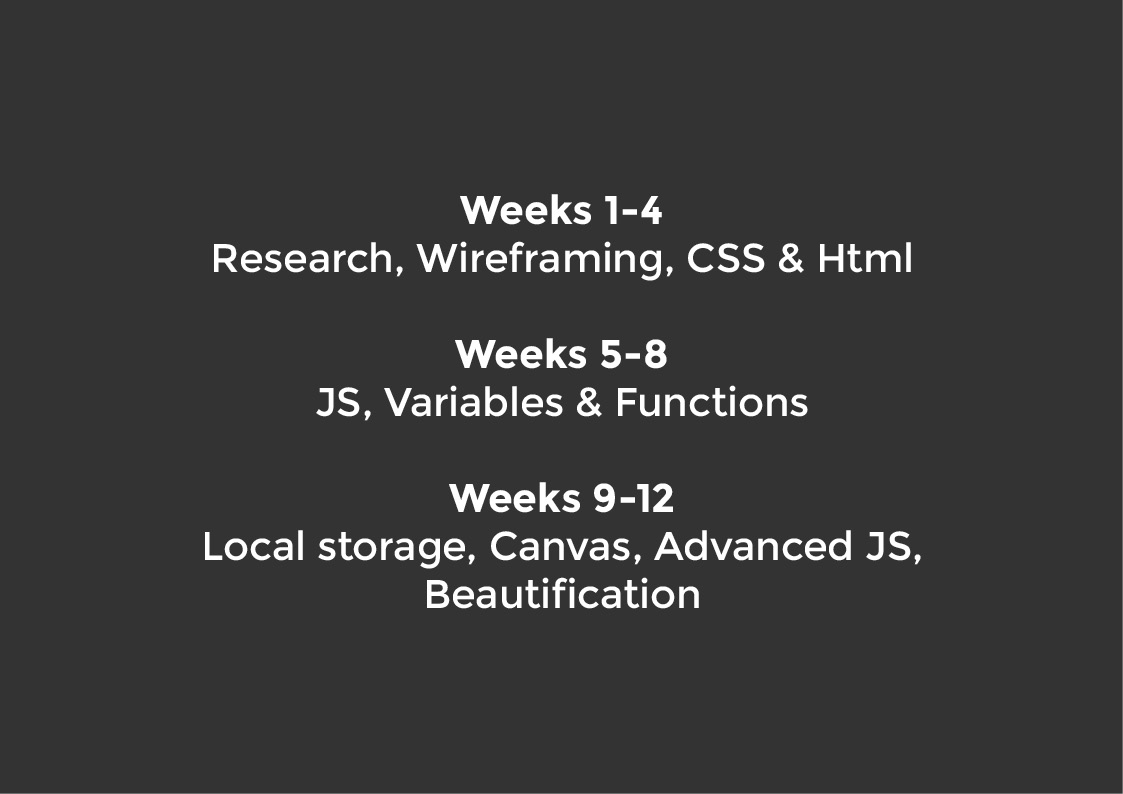
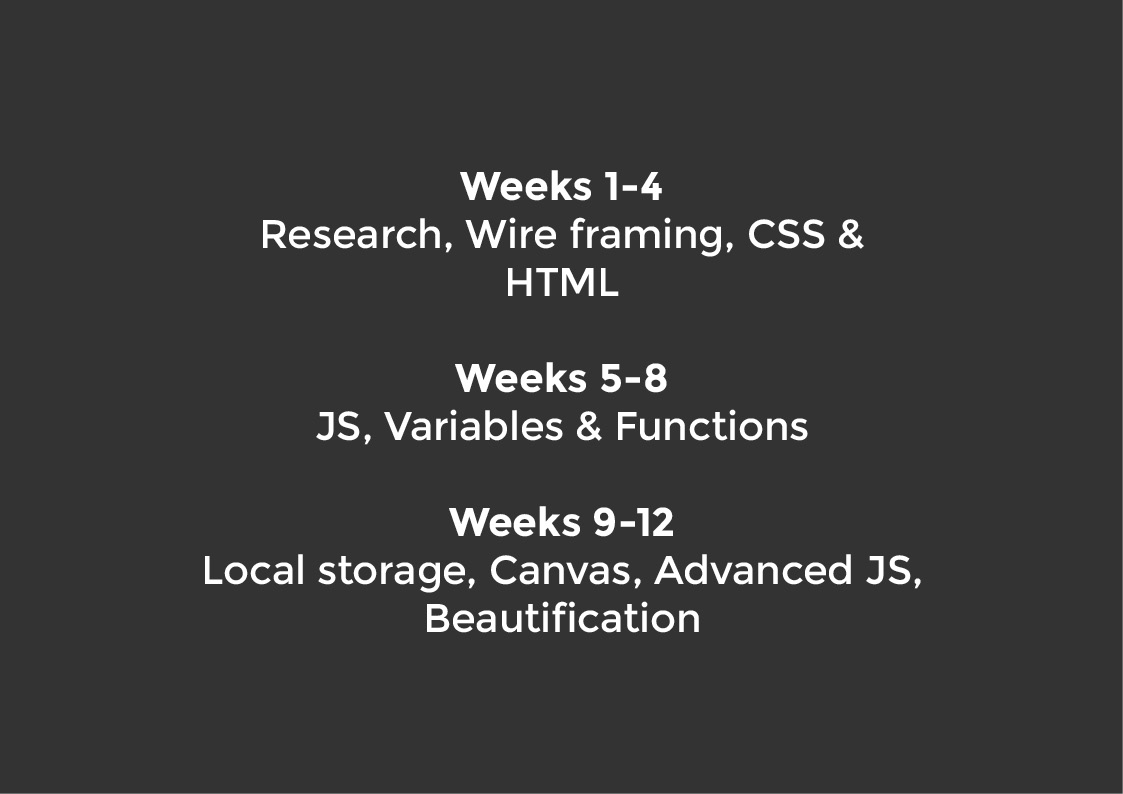
spellcheck

Changed region(s): [[0.1558, 0.6045, 0.8103, 0.8161], [0.187, 0.2116, 0.8103, 0.3929], [0.2805, 0.4232, 0.7168, 0.5743]]

diff --git a/week1.html b/week1.html
@@ -82,7 +82,7 @@ Put your Left hand up
               <h4 class="bullet" >Happy</h4>
               <h4 class=" bullet" >Meh? </h4>
               <h4 class="bullet" >Unhappy</h4>
-              <p class="small">If you are unhappy or unure on something, please explain on the back</p>
+              <p class="small">If you are unhappy or unsure on something, please explain on the back</p>
             </section>
     <section data-menu-title="stickie 1" data-background-transition="convex">
               <p><img src="assets/week0assets/sticky2.JPG"/></p>
@@ -152,7 +152,7 @@ Put your Left hand up
               <h3>Our Expectations</h3>
               <p class="fragment">All to engage with lectures & workshops.</p>
               <p class="fragment">Proactive: Ask for help.</p>
-              <p class="fragment">Resourceful - There are plenty of resources online (lynda)</p>
+              <p class="fragment">Resourceful - There are plenty of resources on-line (lynda)</p>
               <p class="fragment">Self-directed learning. (Univ.)</p>
               <p class="fragment">Read and work, including in your own time (i.e. out of Lect. & workshop)</p>
               <p class="fragment"><strong>Work is progressive</strong> - You should be working every week</p>
@@ -165,23 +165,23 @@ Put your Left hand up
     <section data-background="#3f3f3f">
               <h3>Module Overview</h3>
               <p class="fragment">1: Technical look at Web Authoring. (Not Web Design)</p>
-              <p class="fragment">2: Understand & Apply fundamentals of HTML5, CSS3 for creating & styling webpages.</p>
+              <p class="fragment">2: Understand & Apply fundamentals of HTML5, CSS3 for creating & styling web pages.</p>
               <p class="fragment">3: Develop interactive & multimedia-rich websites.</p>
-              <p class="fragment">4: Javascripts / JQuery.</p>
+              <p class="fragment">4: Javascript / JQuery.</p>
               <p class="fragment">5: Understand & Adhere to Web Standards & Specification.</p>
               <p class="fragment">6: Interoperability / responsive (cross-browser & devices)</p>
             </section>
     <section data-background="#3f3f3f">
               <h3>CRG</h3>
-              <h4>(Curriculum Rigour Grid<span style="color: red">!Important;)</span></h4>
-              <p>2 assignements each with their own CRG</p>
+              <h4>(Curriculum Rigor Grid<span style="color: red">!Important;)</span></h4>
+              <p>2 assignments each with their own CRG</p>
             </section>
     <section data-menu-title="crg" data-background-iframe="assets/week0assets/crg1.pdf"> </section>
     <section data-menu-title="crg" data-background-iframe="assets/week0assets/crg2.pdf"> </section>
     <section data-background="#3f3f3f">
               <h3>Schedule</h3>
               <h4>Weeks 1-4</h4>
-              <p>Research, Wireframing, CSS & Html</p>
+              <p>Research, Wire-framing, CSS & HTML</p>
               <h4>Weeks 5-8 </h4>
               <p>JS, Variables & Functions</p>
               <h4>Weeks 9-12 </h4>
@@ -189,37 +189,37 @@ Put your Left hand up
             </section>
 
  
-    <section data-menu-title="slide49" data-background="assets/week0assets/intro49.jpg" data-background-size="900px" data-background-color="#333333"></section>
+    <section data-menu-title="slide49" data-background="assets/week0assets/intro49.jpg" data-background-size="contain" data-background-color="#333333"></section>
 
-    <section data-menu-title="slide51" data-background="assets/week0assets/intro51.jpg" data-background-size="900px" data-background-color="#333333"></section>
-    <section data-menu-title="slide52" data-background="assets/week0assets/intro52.jpg" data-background-size="900px" data-background-color="#333333"></section>
-    <section data-menu-title="slide53" data-background="assets/week0assets/intro53.jpg" data-background-size="900px" data-background-color="#333333"></section>
-    <section data-menu-title="slide54" data-background="assets/week0assets/intro54.jpg" data-background-size="900px" data-background-color="#333333"></section>
-    <section data-menu-title="slide55" data-background="assets/week0assets/intro55.jpg" data-background-size="900px" data-background-color="#333333"></section>
-    <section data-menu-title="slide56" data-background="assets/week0assets/intro56.jpg" data-background-size="900px" data-background-color="#333333"></section>
+    <section data-menu-title="slide51" data-background="assets/week0assets/intro51.jpg" data-background-size="contain" data-background-color="#333333"></section>
+    <section data-menu-title="slide52" data-background="assets/week0assets/intro52.jpg" data-background-size="contain" data-background-color="#333333"></section>
+    <section data-menu-title="slide53" data-background="assets/week0assets/intro53.jpg" data-background-size="contain" data-background-color="#333333"></section>
+    <section data-menu-title="slide54" data-background="assets/week0assets/intro54.jpg" data-background-size="contain" data-background-color="#333333"></section>
+    <section data-menu-title="slide55" data-background="assets/week0assets/intro55.jpg" data-background-size="contain" data-background-color="#333333"></section>
+    <section data-menu-title="slide56" data-background="assets/week0assets/intro56.jpg" data-background-size="contain" data-background-color="#333333"></section>
     
      <section data-menu-title="logical" data-background-transition="convex" data-background-video="assets/week0assets/logical.mp4"> </section>
     
-    <section data-menu-title="slide58" data-background="assets/week0assets/intro58.jpg" data-background-size="900px" data-background-color="#333333"></section>
-    <section data-menu-title="slide59" data-background="assets/week0assets/intro59.jpg" data-background-size="900px" data-background-color="#333333"></section>
-    <section data-menu-title="slide60" data-background="assets/week0assets/intro60.jpg" data-background-size="900px" data-background-color="#333333"></section>
-    <section data-menu-title="slide61" data-background="assets/week0assets/intro61.jpg" data-background-size="900px" data-background-color="#333333"></section>
-    <section data-menu-title="slide62" data-background="assets/week0assets/intro62.jpg" data-background-size="900px" data-background-color="#333333"></section>
-    <section data-menu-title="slide63" data-background="assets/week0assets/intro63.jpg" data-background-size="900px" data-background-color="#333333"></section>
-    <section data-menu-title="slide64" data-background="assets/week0assets/intro64.jpg" data-background-size="900px" data-background-color="#333333"></section>
-    <section data-menu-title="slide65" data-background="assets/week0assets/intro65.jpg" data-background-size="900px" data-background-color="#333333"></section>
+    <section data-menu-title="slide58" data-background="assets/week0assets/intro58.jpg" data-background-size="contain" data-background-color="#333333"></section>
+    <section data-menu-title="slide59" data-background="assets/week0assets/intro59.jpg" data-background-size="contain" data-background-color="#333333"></section>
+    <section data-menu-title="slide60" data-background="assets/week0assets/intro60.jpg" data-background-size="contain" data-background-color="#333333"></section>
+    <section data-menu-title="slide61" data-background="assets/week0assets/intro61.jpg" data-background-size="contain" data-background-color="#333333"></section>
+    <section data-menu-title="slide62" data-background="assets/week0assets/intro62.jpg" data-background-size="contain" data-background-color="#333333"></section>
+    <section data-menu-title="slide63" data-background="assets/week0assets/intro63.jpg" data-background-size="contain" data-background-color="#333333"></section>
+    <section data-menu-title="slide64" data-background="assets/week0assets/intro64.jpg" data-background-size="contain" data-background-color="#333333"></section>
+    <section data-menu-title="slide65" data-background="assets/week0assets/intro65.jpg" data-background-size="contain" data-background-color="#333333"></section>
 
 	 <section data-menu-title="SWORDFISH HACK" data-background-transition="convex" data-background-video="assets/week0assets/hack.mp4" data-background-video-loop="loop"> </section>
 			  
 			  
-    <section data-menu-title="slide67" data-background="assets/week0assets/intro67.jpg" data-background-size="900px" data-background-color="#333333"></section>
+    <section data-menu-title="slide67" data-background="assets/week0assets/intro67.jpg" data-background-size="contain" data-background-color="#333333"></section>
  
         <section  data-background="">
-              <h2>Assesments</h2>
+              <h2>Assessments</h2>
               <h3>
 				  There are 2 parts</h3>
 
-<p class="fragment">1: Research, Wireframing & Peer Reviews <br>
+<p class="fragment">1: Research, Wire-framing & Peer Reviews <br>
 	(week 7)</p>
 
 <p class="fragment">2: Functional Website: Live server, interoperability video documentation<br>
@@ -227,35 +227,35 @@ Put your Left hand up
               </p>
             </section>
             
-    <section data-menu-title="slide69" data-background="assets/week0assets/intro69.jpg" data-background-size="900px" data-background-color="#333333"></section>
-    <section data-menu-title="slide70" data-background="assets/week0assets/intro70.jpg" data-background-size="900px" data-background-color="#333333"></section>
-    <section data-menu-title="slide71" data-background="assets/week0assets/intro71.jpg" data-background-size="900px" data-background-color="#333333"></section>
-    <section data-menu-title="slide72" data-background="assets/week0assets/intro72.jpg" data-background-size="900px" data-background-color="#333333"></section>
-    <section data-menu-title="slide73" data-background="assets/week0assets/intro73.jpg" data-background-size="900px" data-background-color="#333333"></section>
-    <section data-menu-title="slide74" data-background="assets/week0assets/intro74.jpg" data-background-size="900px" data-background-color="#333333"></section>
-    <section data-menu-title="slide75" data-background="assets/week0assets/intro75.jpg" data-background-size="900px" data-background-color="#333333"></section>
-    <section data-menu-title="slide76" data-background="assets/week0assets/intro76.jpg" data-background-size="900px" data-background-color="#333333"></section>
+    <section data-menu-title="slide69" data-background="assets/week0assets/intro69.jpg" data-background-size="contain" data-background-color="#333333"></section>
+    <section data-menu-title="slide70" data-background="assets/week0assets/intro70.jpg" data-background-size="contain" data-background-color="#333333"></section>
+    <section data-menu-title="slide71" data-background="assets/week0assets/intro71.jpg" data-background-size="contain" data-background-color="#333333"></section>
+    <section data-menu-title="slide72" data-background="assets/week0assets/intro72.jpg" data-background-size="contain" data-background-color="#333333"></section>
+    <section data-menu-title="slide73" data-background="assets/week0assets/intro73.jpg" data-background-size="contain" data-background-color="#333333"></section>
+    <section data-menu-title="slide74" data-background="assets/week0assets/intro74.jpg" data-background-size="contain" data-background-color="#333333"></section>
+    <section data-menu-title="slide75" data-background="assets/week0assets/intro75.jpg" data-background-size="contain" data-background-color="#333333"></section>
+    <section data-menu-title="slide76" data-background="assets/week0assets/intro76.jpg" data-background-size="contain" data-background-color="#333333"></section>
     <section data-background-iframe="http://blacknegative.com" data-background-interactive> </section>
-    <section data-menu-title="slide77" data-background="assets/week0assets/intro77.jpg" data-background-size="900px" data-background-color="#333333"></section>
+    <section data-menu-title="slide77" data-background="assets/week0assets/intro77.jpg" data-background-size="contain" data-background-color="#333333"></section>
     <section data-background-iframe="https://webcamtoy.com/" data-background-interactive> </section>
 
    
-    <section data-menu-title="slide80" data-background="assets/week0assets/intro80.jpg" data-background-size="900px" data-background-color="#333333"></section>
-    <section data-background-iframe="https://helloenjoy.com/lights/" data-background-interactive> </section>
+    <section data-menu-title="slide80" data-background="assets/week0assets/intro80.jpg" data-background-size="contain" data-background-color="#333333"></section>
+    <section data-background-iframe="https://web.archive.org/web/20140719235712/http://lights.helloenjoy.com:80/" data-background-interactive> </section>
     
-    <section data-menu-title="slide81" data-background="assets/week0assets/intro81.jpg" data-background-size="900px" data-background-color="#333333"></section>
+    <section data-menu-title="slide81" data-background="assets/week0assets/intro81.jpg" data-background-size="contain" data-background-color="#333333"></section>
     <section data-background-iframe="http://www.screentoys.com/" data-background-interactive> </section>
     
-    <section data-menu-title="slide82" data-background="assets/week0assets/intro82.jpg" data-background-size="900px" data-background-color="#333333"></section>
-    <section data-background-iframe="http://haxiomic.github.io/GPU-Fluid-Experiments/html5/" data-background-interactive> </section>
+    <section data-menu-title="slide82" data-background="assets/week0assets/intro82.jpg" data-background-size="contain" data-background-color="#333333"></section>
+    <section data-background-iframe="https://haxiomic.github.io/GPU-Fluid-Experiments/html5/" data-background-interactive> </section>
     
-    <section data-menu-title="slide83" data-background="assets/week0assets/intro83.jpg" data-background-size="900px" data-background-color="#333333"></section>
+    <section data-menu-title="slide83" data-background="assets/week0assets/intro83.jpg" data-background-size="contain" data-background-color="#333333"></section>
     <section data-background-iframe="http://www.spacegoo.com/cadillac/" data-background-interactive> </section>
     
-    <section data-menu-title="slide85" data-background="assets/week0assets/intro85.jpg" data-background-size="900px" data-background-color="#333333"></section>
-    <section data-menu-title="slide86" data-background="assets/week0assets/intro86.jpg" data-background-size="900px" data-background-color="#333333"></section>
-    <section data-menu-title="slide87" data-background="assets/week0assets/intro87.jpg" data-background-size="900px" data-background-color="#333333"></section>
-   <section data-menu-title="slide88" data-background="assets/week0assets/intro88.jpg" data-background-size="900px" data-background-color="#333333"></section>
+    <section data-menu-title="slide85" data-background="assets/week0assets/intro85.jpg" data-background-size="contain" data-background-color="#333333"></section>
+    <section data-menu-title="slide86" data-background="assets/week0assets/intro86.jpg" data-background-size="contain" data-background-color="#333333"></section>
+    <section data-menu-title="slide87" data-background="assets/week0assets/intro87.jpg" data-background-size="contain" data-background-color="#333333"></section>
+   <section data-menu-title="slide88" data-background="assets/week0assets/intro88.jpg" data-background-size="contain" data-background-color="#333333"></section>
 			   <section data-menu-title="slide89" data-background="assets/week0assets/intro89.jpg" data-background-size="cover" data-background-color="#333333"></section>
   </div>
         </div>
